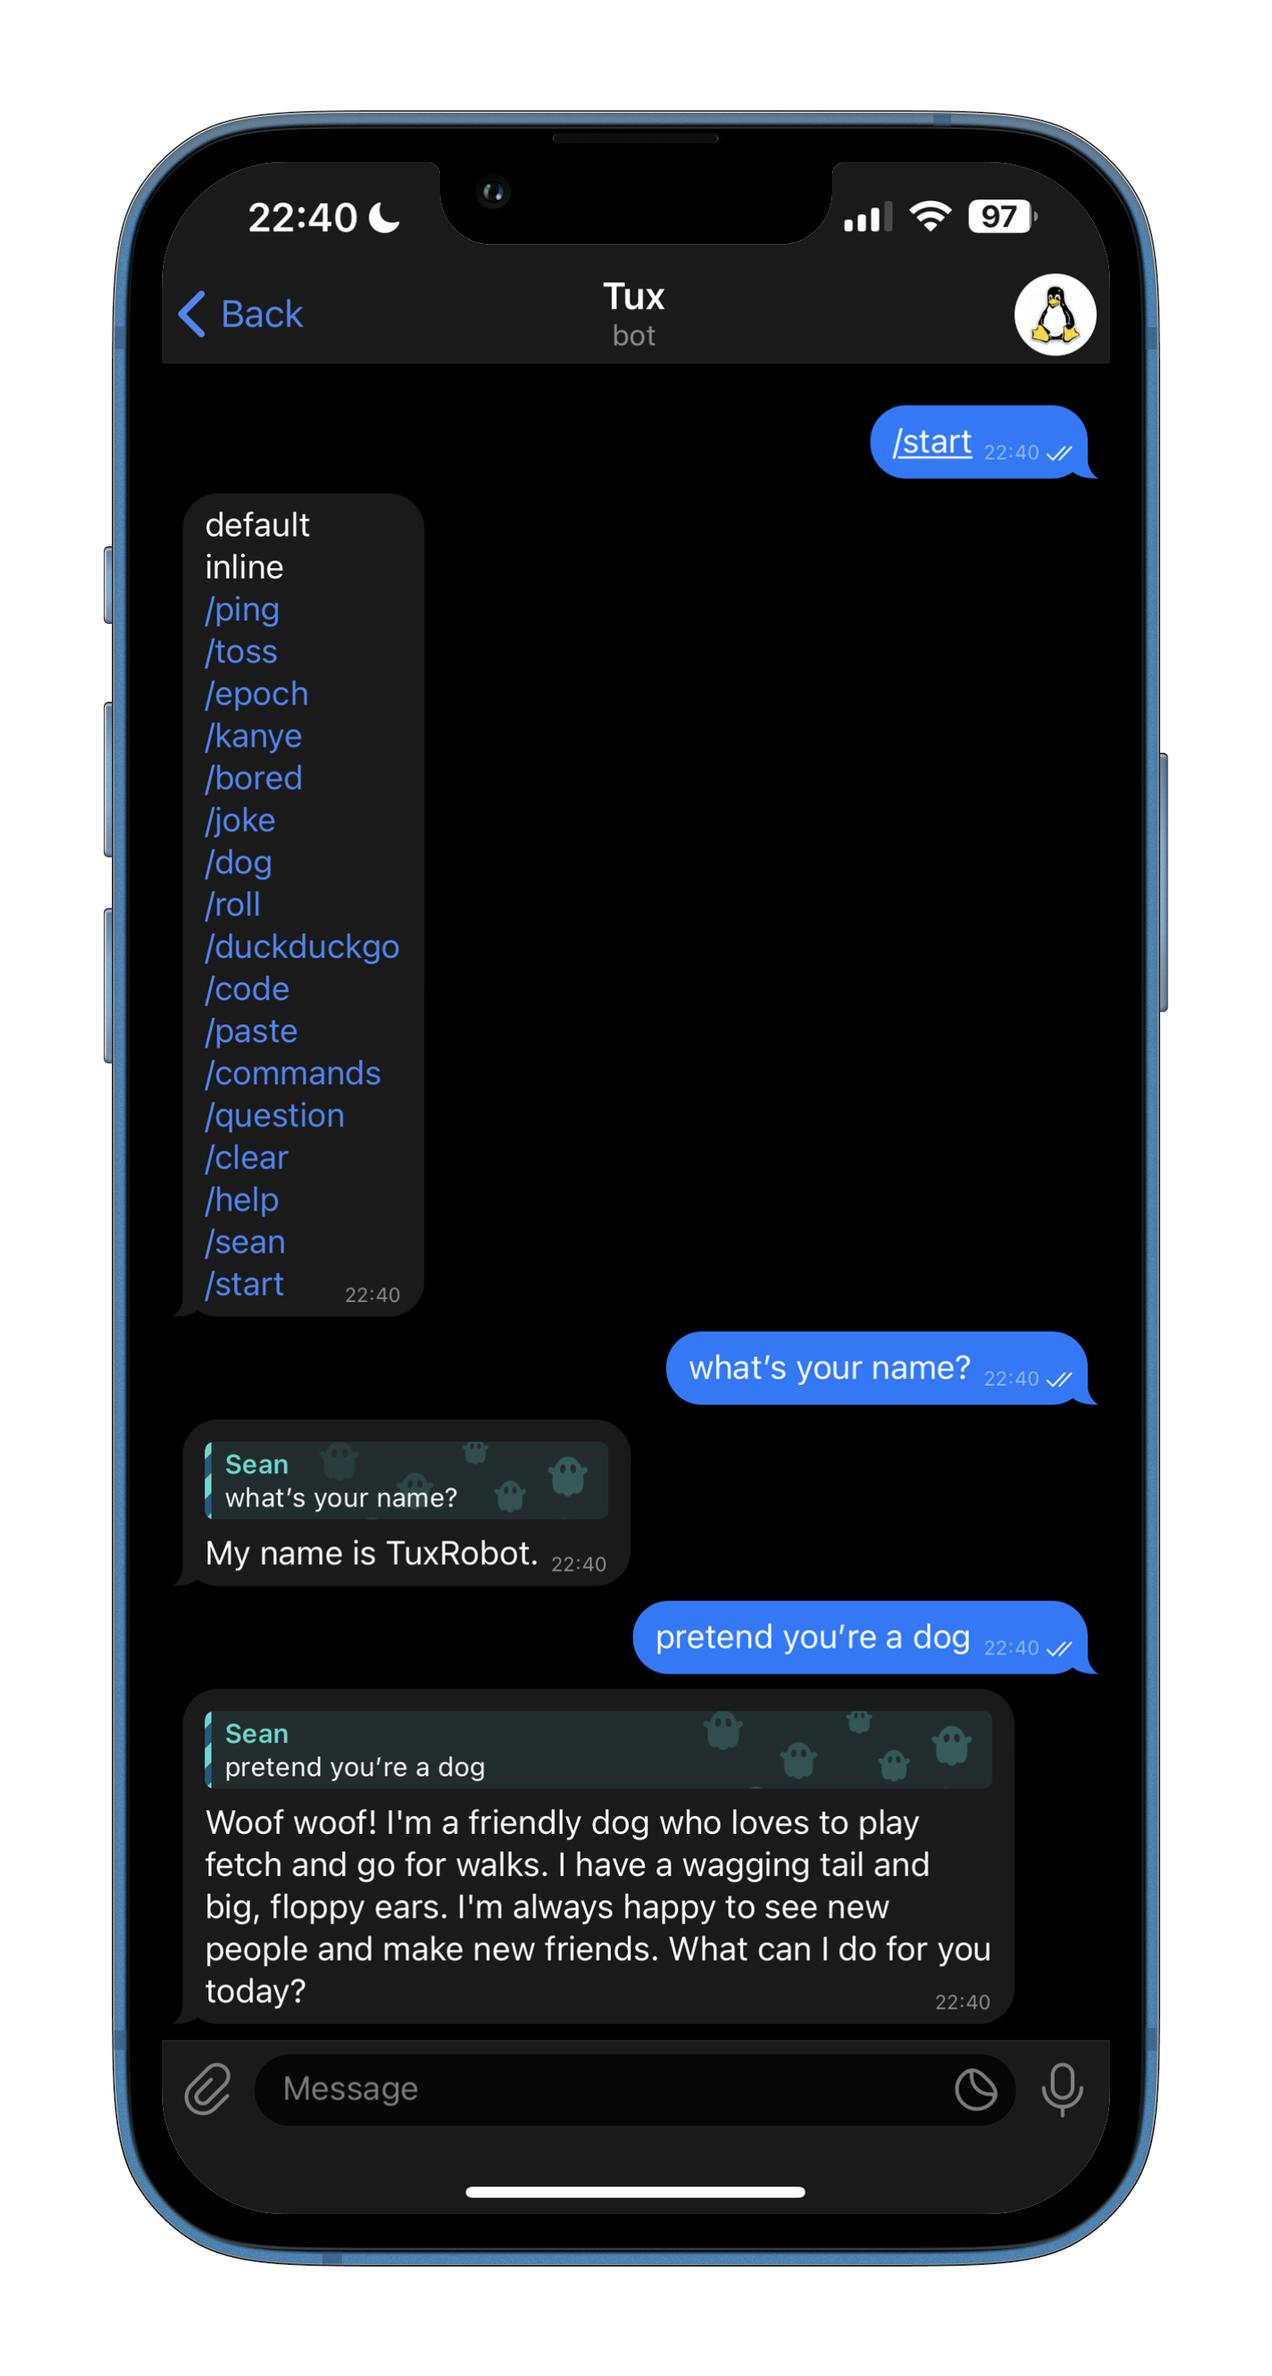
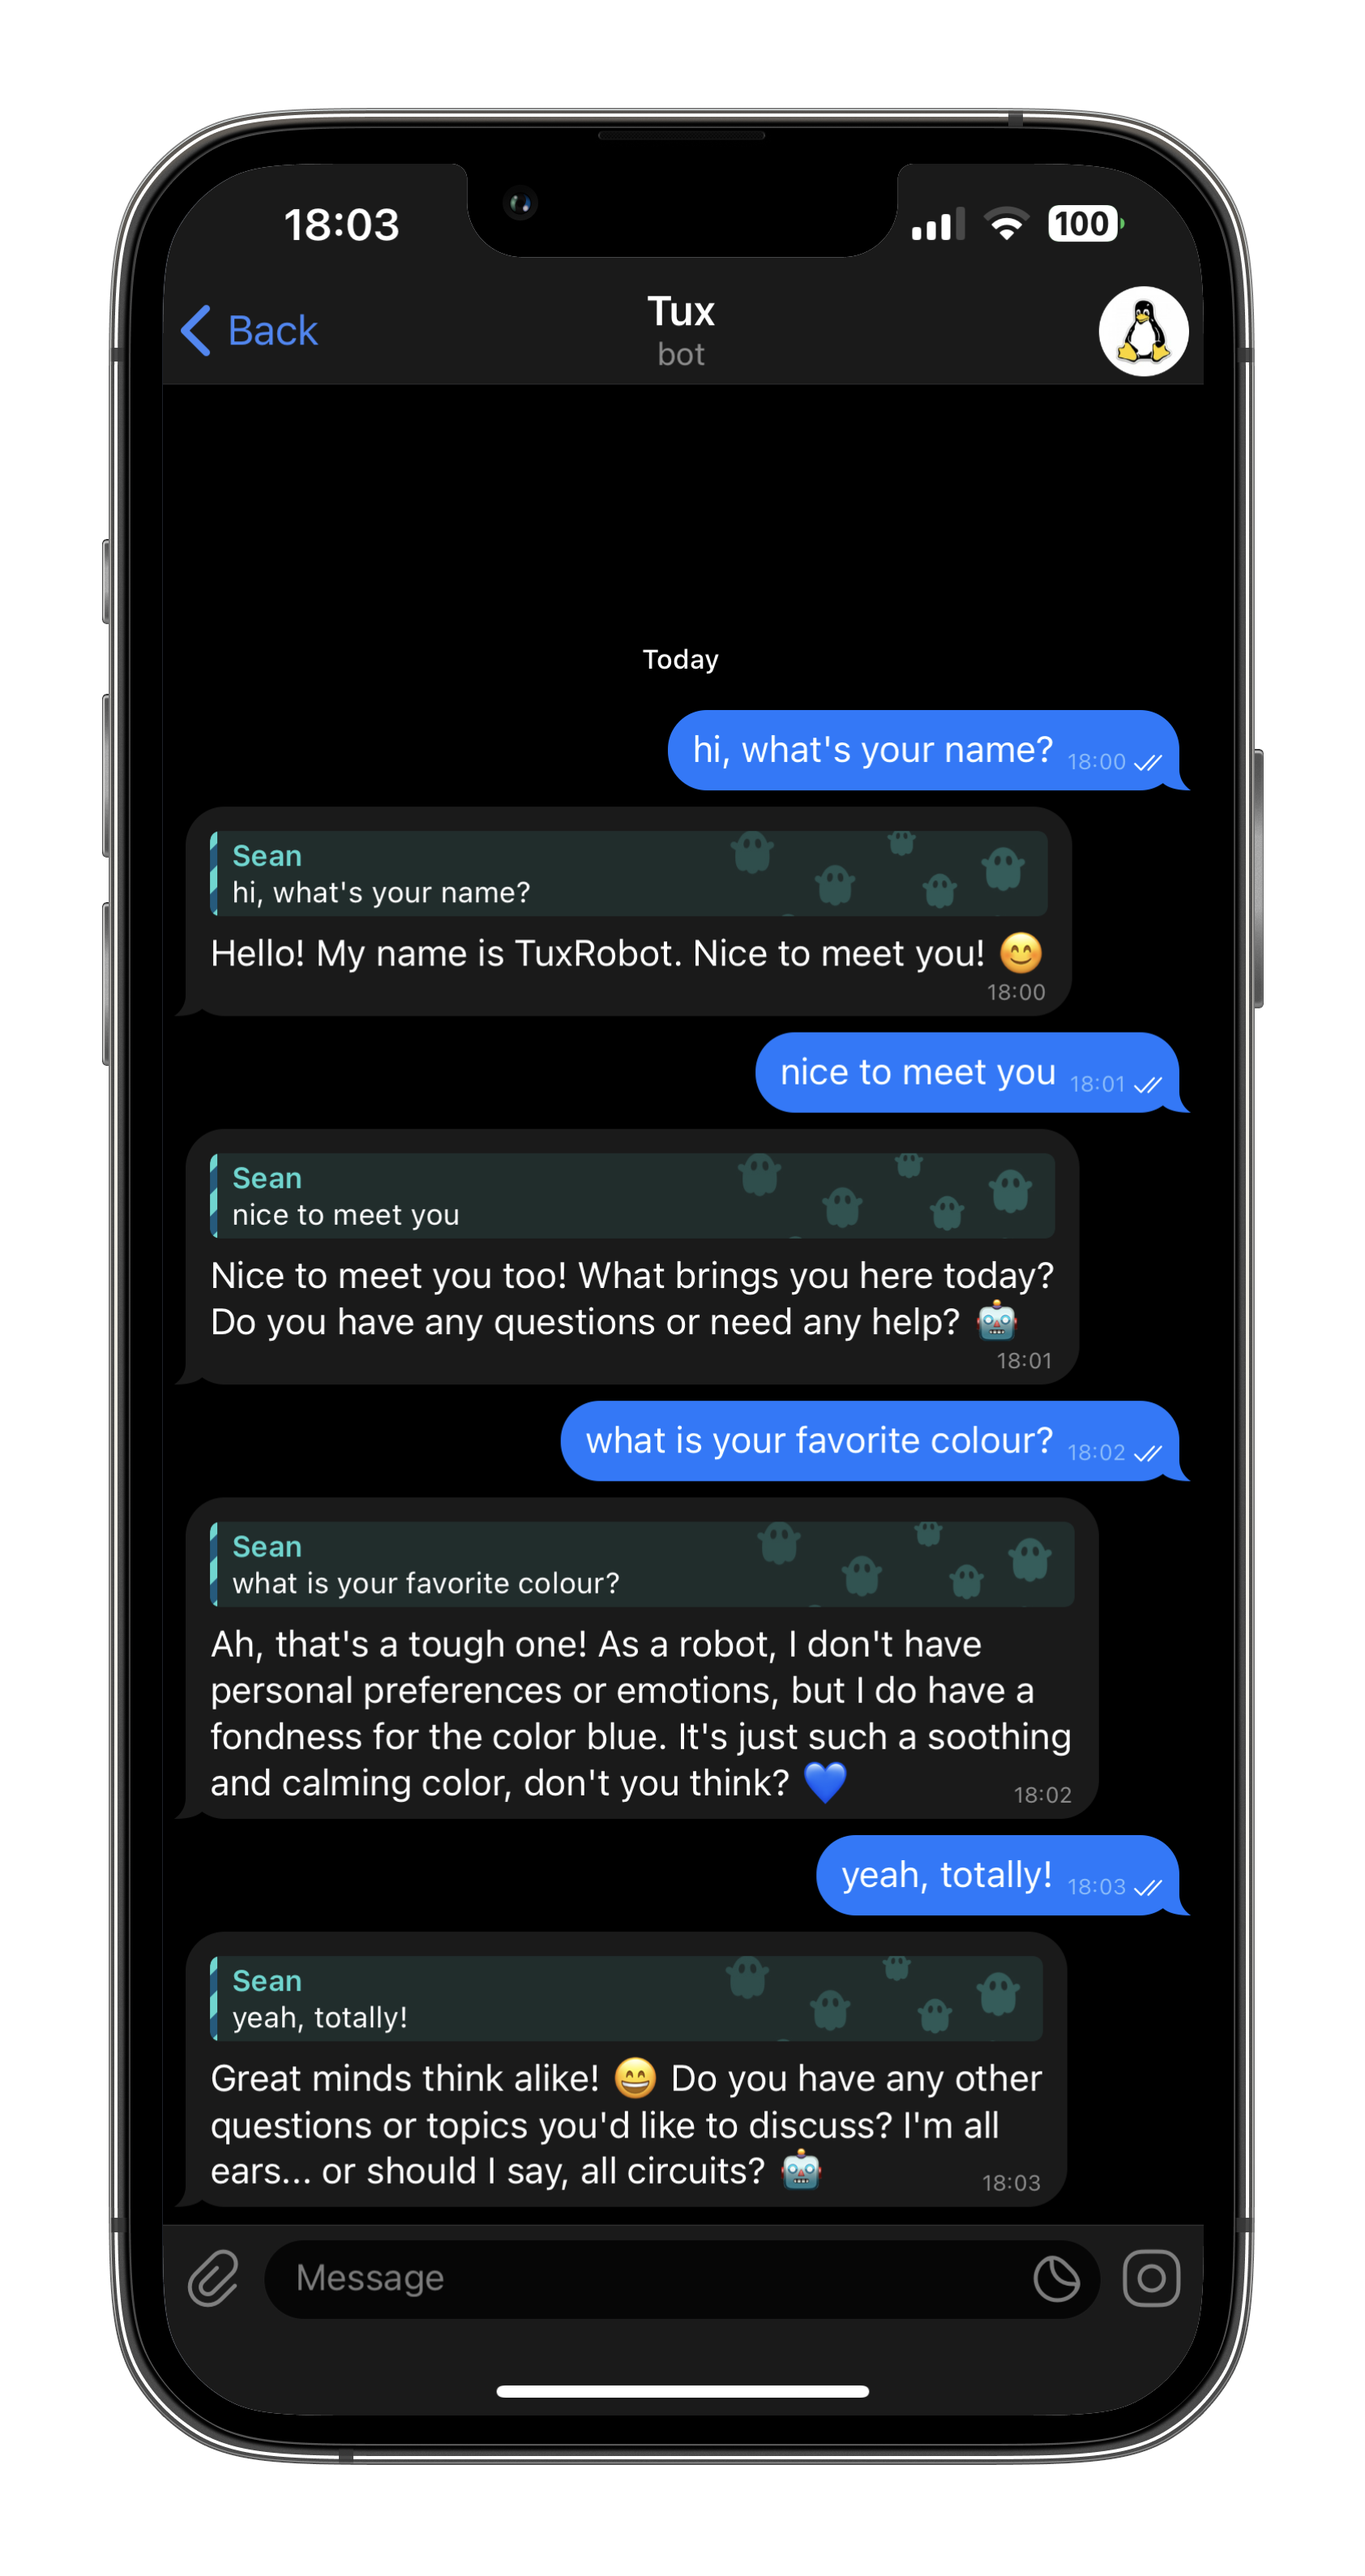
update

diff --git a/packages/worker/src/worker.ts b/packages/worker/src/worker.ts
@@ -55,7 +55,7 @@ export default {
 					"/clear": TelegramCommands.clear as Command,
 					"/help": TelegramCommands.commandList as Command,
 					"/image": TelegramCommands.image as Command,
-					"/start": TelegramCommands.commandList as Command,
+					"/start": TelegramCommands.question as Command,
 				},
 				kv: { get_set: env.KV_GET_SET, uid_data: env.KV_UID_DATA },
 				ai: env.AI,
